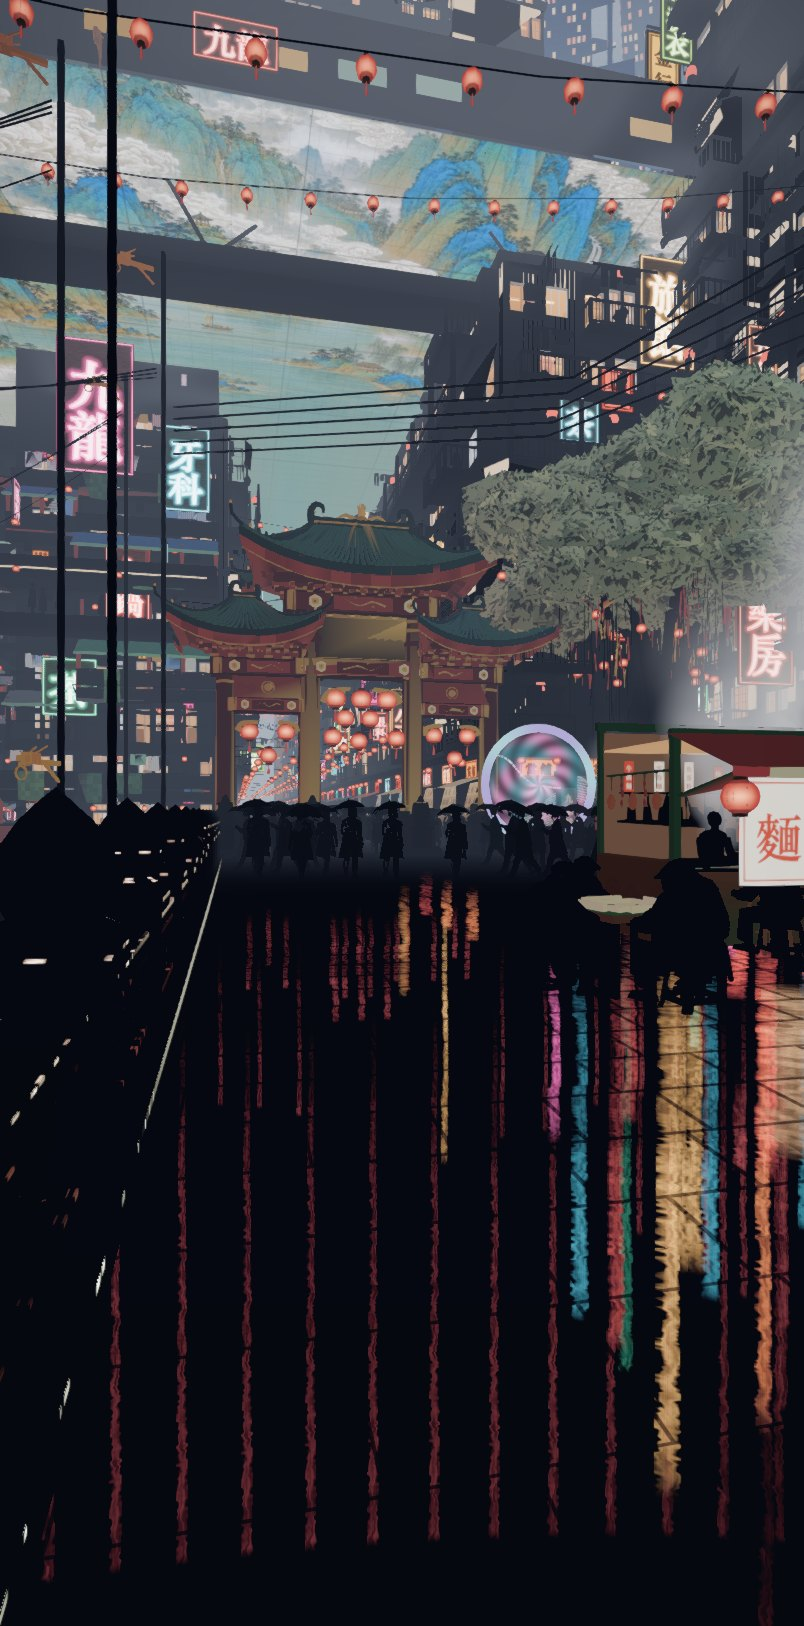
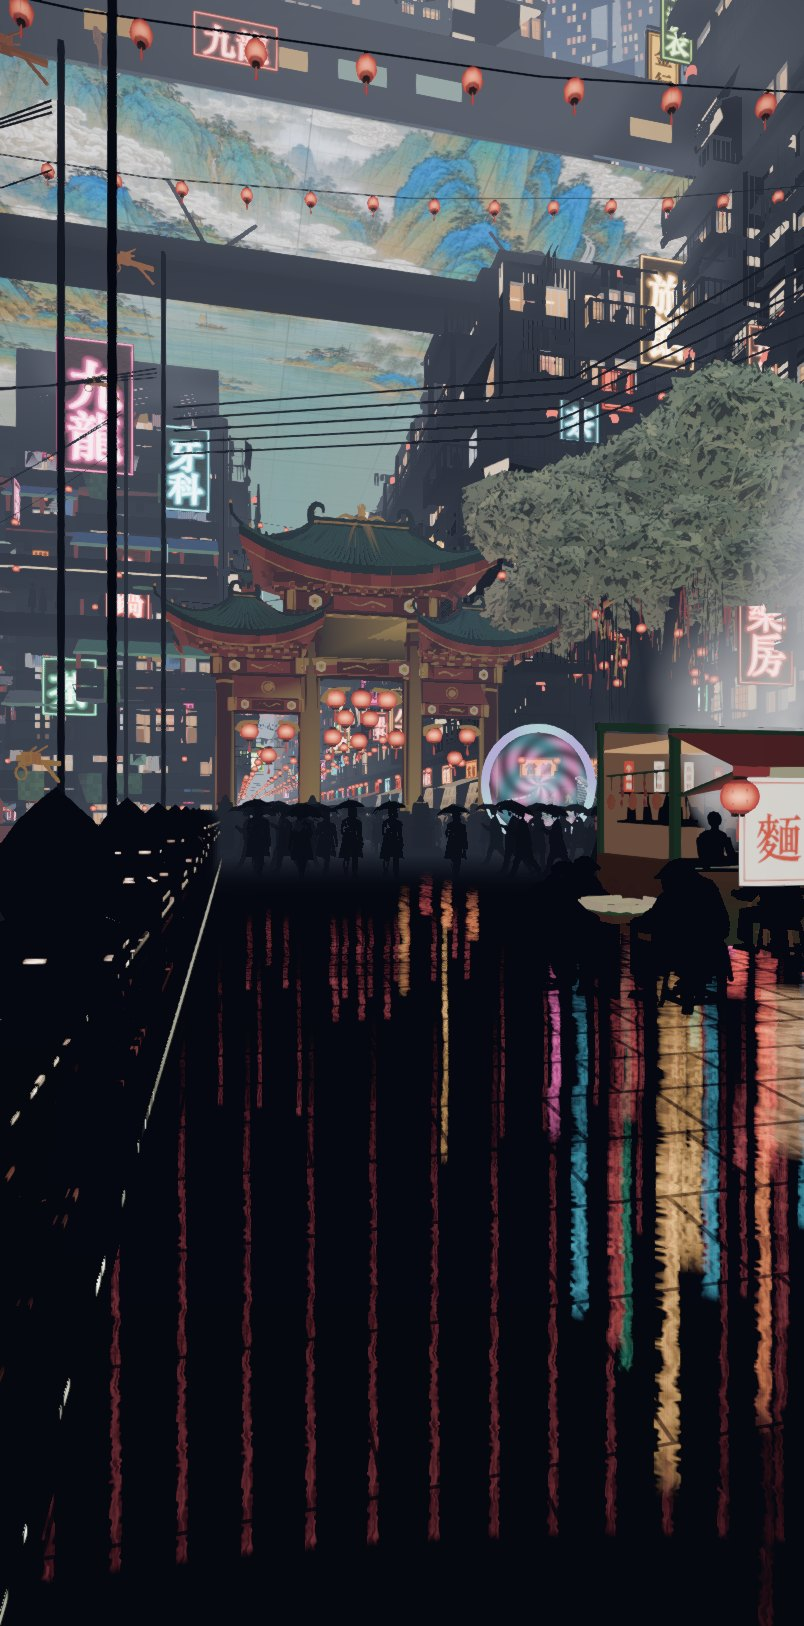
fix(budgets): Nine records its library allowance
ONE-FORMAT OF21. Nine's first staging upload (publish 44681354500)
was refused: perf-library-download-budget, library 66,208,490 bytes
over the format's 8,000,000 default allowance. Nine records its own
line, as Sky Reach does: the definition's 12,103,534 library bytes,
to which the build adds each later step's growth (66,208,490 built),
under the 100 MB phone download cap (J338). New content moves the
line; nothing is cut (J437, J439/J444). The hero is recaptured on the
v0.1.53 devserver client (the budget change made it stale); the frame
is unchanged.

Proof: pnpm check, ci21, build:shards, wildshard check (pass), owned,
product-play and package-products, portal, grid-ready, well-crossing
and cook-play all pass locally.

Lane: opus-of21-drift2

Assisted-by: Claude Code:claude-opus-5-5

diff --git a/src/generators/shardfileDefinition.ts b/src/generators/shardfileDefinition.ts
@@ -84,7 +84,12 @@ const courseBytes=courseProgram.blob.bytes.byteLength, courseMemory=courseBytes+
 const navigationResident = navigation.files.reduce((sum, file) => sum + file.decoded, 0);
 // the movers view module's memory (behaviour/movers.as, its pages twice: the client lane's image and its rewind copy)
 const viewMemory = movers.pages * 65536 * 2;
-const budgets = { ...base.budgets, tier: 'large' as const, sim: { resident: navigationResident+courseMemory, compressed: navigation.files.reduce((sum, file) => sum + file.compressed, 0)+courseBytes }, library: { compressed: charged.reduce((sum, file) => sum + file.compressed, 0), resident: charged.reduce((sum, file) => sum + file.decoded + file.gpu, 0) + viewMemory } };
+// OF21: as an ordinary upload Nine's library meets the format's 8 MB default library allowance, which refuses it.
+// Nine records its own line instead (J439/J444: new content moves the line; J437: never cut content to fit an old
+// number): this definition's library bytes on 2026-11-20, to which the build adds each later step's growth (66.2 MB
+// built). Re-record it when the definition's library grows; the hard ceiling is a shard's 100 MB phone download (J338).
+const NINE_LIBRARY_ALLOWANCE = 12_103_534;
+const budgets = { ...base.budgets, tier: 'large' as const, sim: { resident: navigationResident+courseMemory, compressed: navigation.files.reduce((sum, file) => sum + file.compressed, 0)+courseBytes }, library: { compressed: charged.reduce((sum, file) => sum + file.compressed, 0), resident: charged.reduce((sum, file) => sum + file.decoded + file.gpu, 0) + viewMemory, downloadAllowance: NINE_LIBRARY_ALLOWANCE } };
 // parseShardfile admits each link against the format's PortalLink schema (strict nodes, bound links, the walked route)
 return { ...base, plumbing, budgets, navigation: navigation.navigation, critical: navigation.critical,
   serverBudget: { ...base.serverBudget, memory: base.serverBudget.memory + navigationResident+courseMemory },

diff --git a/project/journal/2026-11-19-of21-nine-moves.md b/project/journal/2026-11-19-of21-nine-moves.md
@@ -25,3 +25,12 @@ SDK 0.4.18 reached npm, so the pins move to it (cli, dev, sdk) and to the
 format it pins, 0.55.0, beside engine 0.1.53 from npm `next`; the lockfile
 now resolves from npm, not the packed engine. The whole CI set passed
 locally on the new pins and the product-play checkpoint kept its digest.
+
+## Library allowance (opus-of21-drift2, 2026-11-20)
+
+The first staging upload (publish run 44681354500) was refused with
+`perf-library-download-budget`: 66.2 MB of library against the format's
+8 MB default. Nine now records its own allowance (the definition's
+12.1 MB, plus each build step's growth: 66.2 MB built), under the 100 MB
+phone ceiling (J338). The content is not cut (J437, J444). The hero was
+recaptured on the v0.1.53 devserver client; it shows the same frame.
